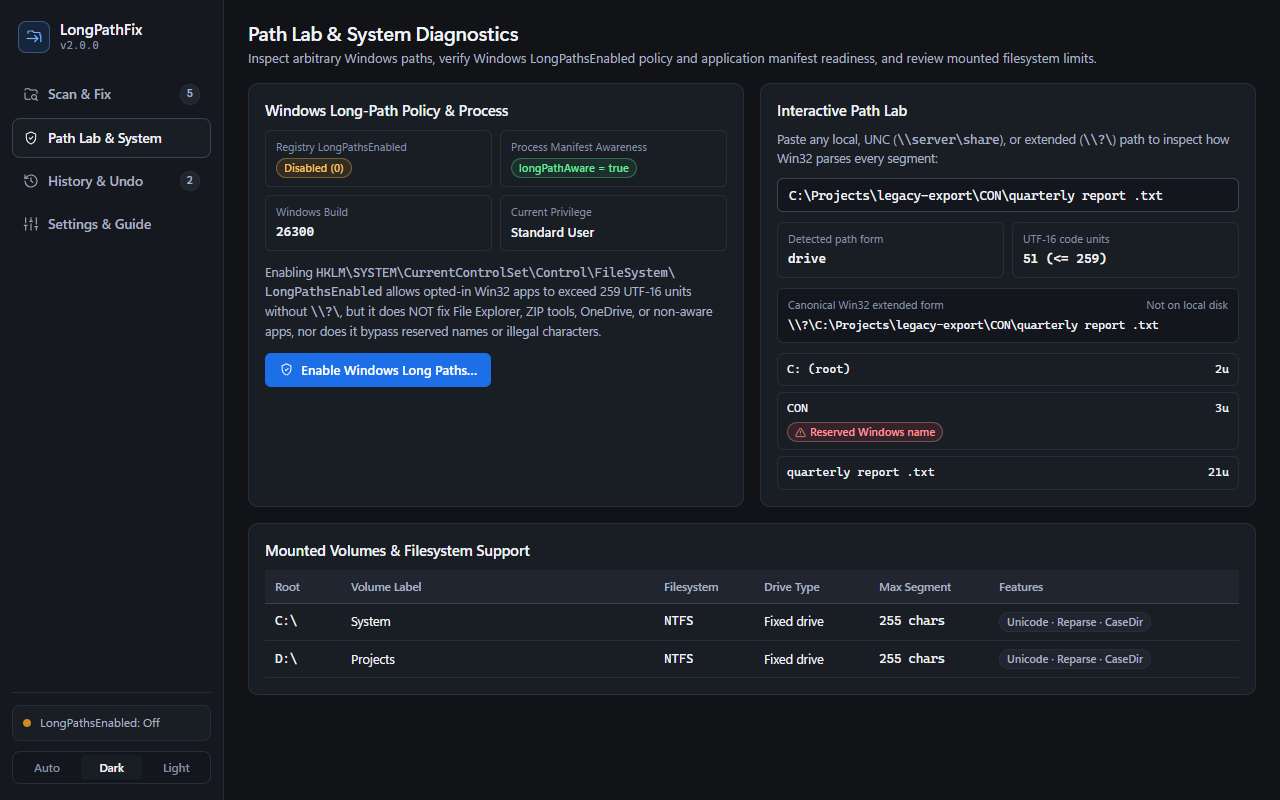
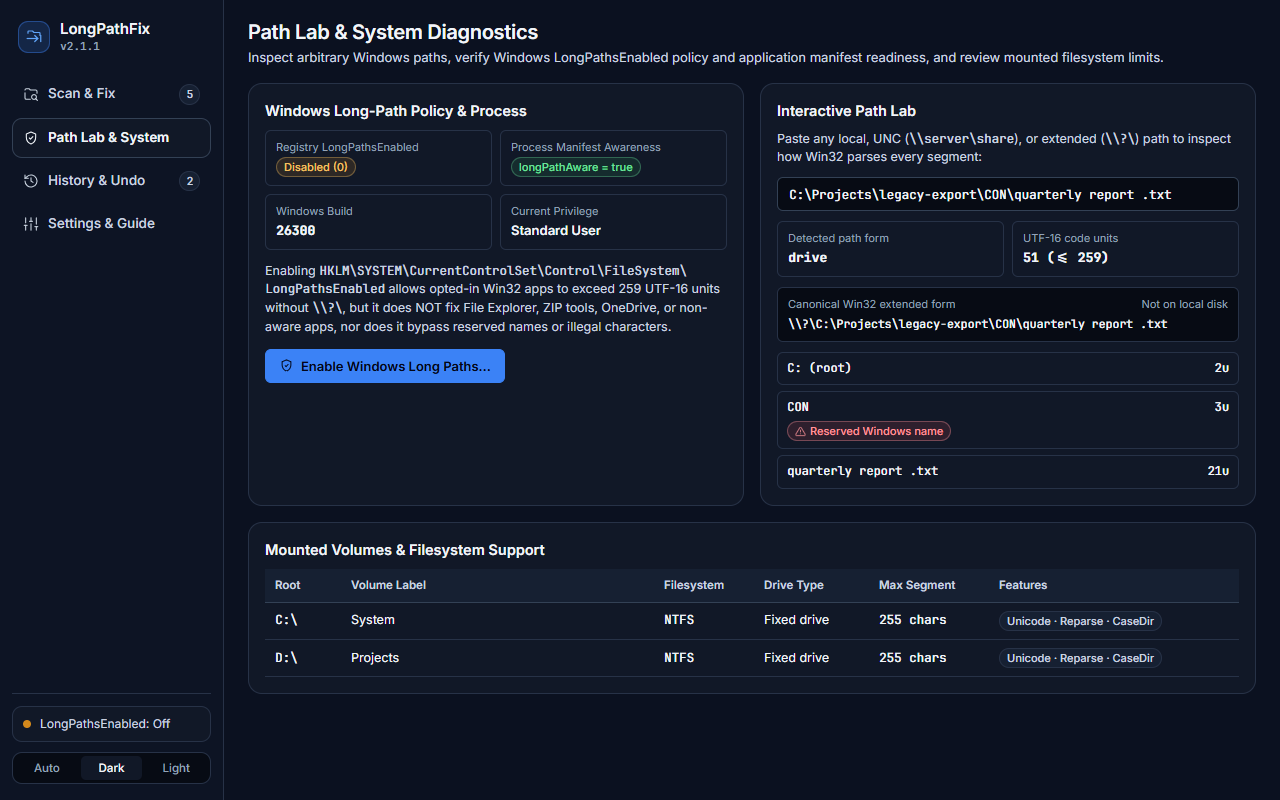
release: 2.1.1 (Inter type, cobalt links; screenshots re-captured)

diff --git a/CHANGELOG.md b/CHANGELOG.md
@@ -2,6 +2,11 @@
 
 All notable changes to LongPathFix are documented in this file. Versioning follows [Semantic Versioning](https://semver.org/); the canonical product version lives in `Cargo.toml`.
 
+## [2.1.1] - 2026-11-19
+
+### Changed
+- New look: Technical Glassmorphism v1.0, the design system of mdanamulhasan.com. Slate canvas, Precision Cobalt accent with PLM teal highlights in dark mode, hairline borders, crisp 6/10/14 px corners, restrained shadows.
+
 ## [2.1.0] - 2026-11-19
 
 ### Changed
